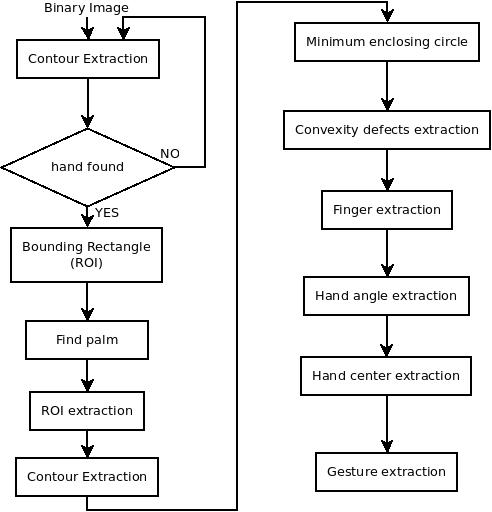
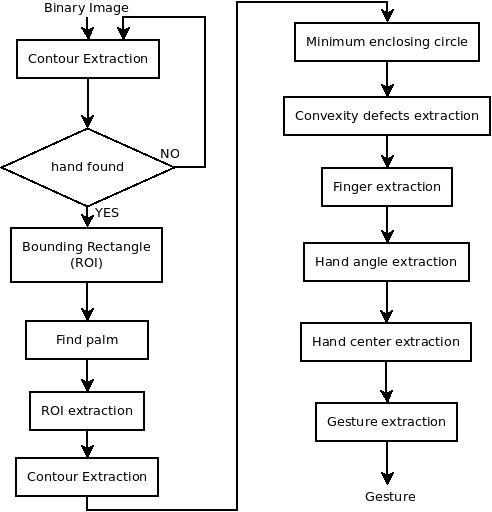
memoria [BACKUP]

Changed region(s): [[0.5488, 0.1562, 1.0, 1.0], [0.9146, 0.4062, 0.9451, 0.4375]]

diff --git a/doc/memoria/memoria.tex b/doc/memoria/memoria.tex
@@ -119,7 +119,7 @@ Afterwards, another contour extraction inside the extracted ROI is made in order
 
 Using the largest contour found in this last step, the minimum enclosing circle is obtained. This circle will be used as a hand's descriptor.
 
-The following step is to compute the convexity defects, that will be used when extracting the number of fingers present in the image. 
+The following step is to compute the convexity defects, that will be used to extract the number of fingers present in the image. 
 In order to assure that a certain part of the image is a finger, three conditions must be fulfilled: 
 \begin{itemize}
 \item The depth of the convexity defect must be in between the minimum inscribed radius and the maximum inscribed radius. 
@@ -127,9 +127,19 @@ In order to assure that a certain part of the image is a finger, three condition
 \item The fingertips must have a k-curvature inside a certain range.
 \end{itemize}
 
+In the next stage of the process, the angle of the hand is obtained measuring the angle of the minimum bounding box. A Kalman filter is placed in order to smooth the response of the system to sudden changes, that are assumed to be errors. 
+
+Then, the hand center location is extracted using the center of the maximum inscribed circle and another Kalman filter to predict the position and eliminate the noise. 
+
+Finally, the gesture made by the hand is extracted, taking as descriptors the number of fingers, the angle between fingers, and both the maximum and minimum inscribed circles. 
+
+The output of this part of the software is a number that encodes the type of gesture made by the user.
+
 
 \subsection{Gesture Recognition} 
+This section of the software has as an input the output of the previous, again. Hence, it will implement a state machine that, depending on the input (the gesture) will execute one function or other. 
 
+The configuration of the actions to be made when an opened or closed palm appears is hardcoded in the program, since those values will not be changeables. In order to obtain the action for each of the two other gestures that may be customized, the software will read the configuration file, and execute the action specified in there. 
 
 \section{User Guide}
 This code was developed using the following libraries: 
